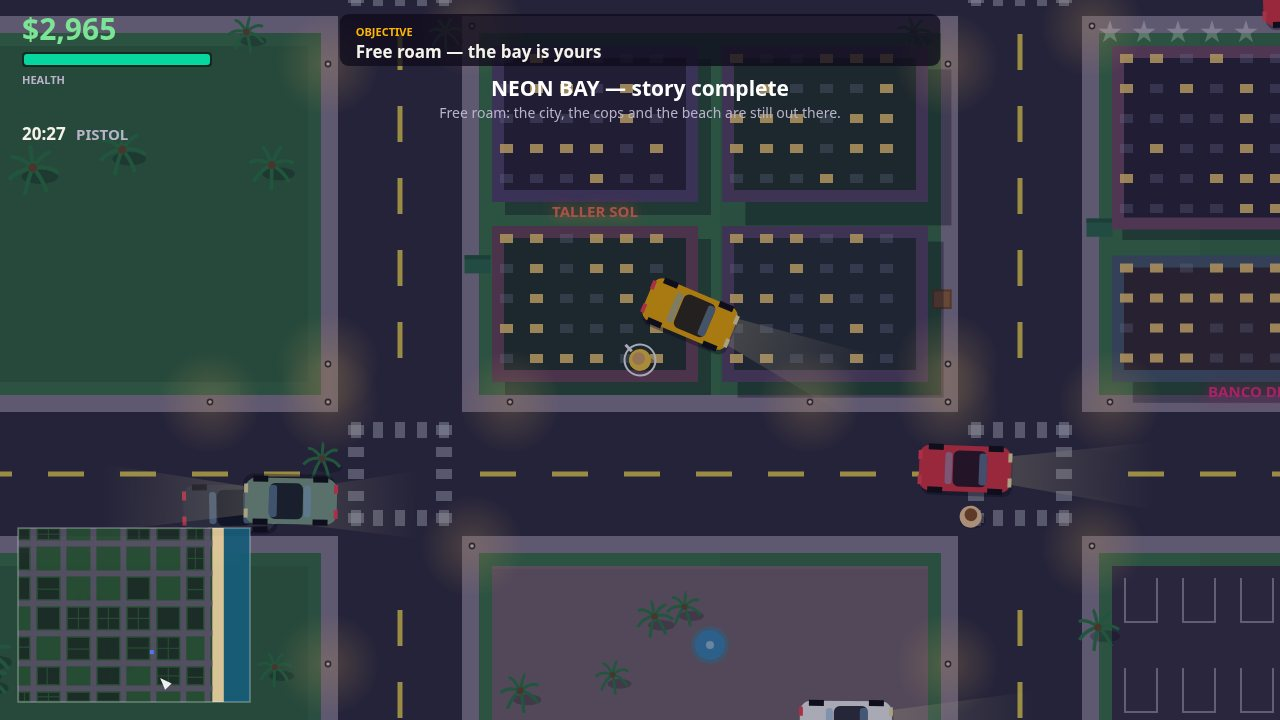
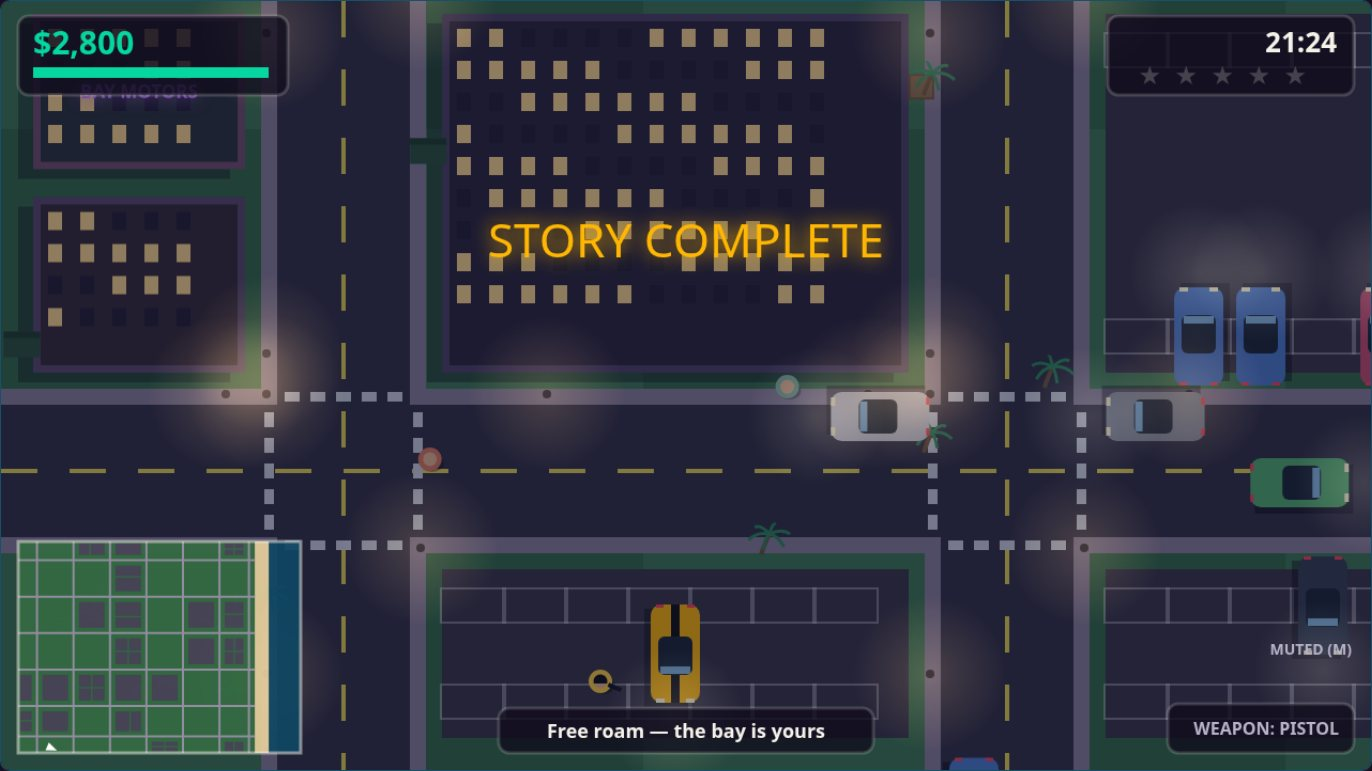
NEON BAY: contact damage per-bump cadence + wreck toast once (pile-ups no longer melt cars), shot staging tuned — 4 fresh real screenshots (title/getaway/beach shootout/night finale)

diff --git a/game/src/world.js b/game/src/world.js
@@ -891,7 +891,10 @@ export function createWorld(seed = 1) {
       const car = player.car;
       if (car.health <= 0) {
         car.speed = 0;
-        world.toast('This car is wrecked — get out and find another');
+        if (!car.wreckToasted) {
+          car.wreckToasted = true;
+          world.toast('This car is wrecked — get out and find another');
+        }
       } else {
         const fwd = -ctl.moveY; // W / ArrowUp is up on screen = accelerate
         const steer = ctl.moveX;
@@ -929,7 +932,10 @@ export function createWorld(seed = 1) {
             const a = Math.atan2(other.y - car.y, other.x - car.x);
             other.x += Math.cos(a) * push;
             other.y += Math.sin(a) * push;
-            if (Math.abs(car.speed) > 200) {
+            // Contact damage is charged per bump, not per step: two cars
+            // grinding together must not melt in a second.
+            if (Math.abs(car.speed) > 200 && !other.hitCd) {
+              other.hitCd = 0.3;
               other.health -= 5;
               car.health -= 2;
               sfx(audio, 'crash', 0.5);
@@ -1073,7 +1079,10 @@ export function createWorld(seed = 1) {
 
     updatePlayer(dt, ctl, audio);
 
-    for (const car of world.cars) car.crimeCd = Math.max(0, (car.crimeCd || 0) - dt);
+    for (const car of world.cars) {
+      car.crimeCd = Math.max(0, (car.crimeCd || 0) - dt);
+      car.hitCd = Math.max(0, (car.hitCd || 0) - dt);
+    }
     for (const car of world.cars) {
       if (car.driver === 'traffic') updateTrafficCar(car, dt);
       else if (car.kind === 'police' && car.driver === 'police') updatePoliceCar(car, dt);

diff --git a/game/src/shots.js b/game/src/shots.js
@@ -7,7 +7,7 @@
 // getaway drive with the law converging, the beach shootout from Mission 3,
 // and the quiet night after the story is done.
 
-export const SHOT_STEP_SECONDS = { start: 0.6, play: 4.6, chase: 3.6, end: 1.4 };
+export const SHOT_STEP_SECONDS = { start: 0.6, play: 3.6, chase: 3.6, end: 1.4 };
 
 const NEUTRAL = { moveX: 0, moveY: 0, run: false, attack: false, interact: false, aimAngle: 0 };
 
@@ -28,10 +28,10 @@ export function setupShot(world, name) {
       // with three stars on it and the package run about to begin.
       world.restore({
         money: 250, missionIndex: 1, hasGun: true,
-        x: 3050, y: 1591, health: 100, timeHours: 18.05,
+        x: 2100, y: 1591, health: 100, timeHours: 18.05,
         stats: { stolen: 1, kills: 0, missions: 1, shotsFired: 0 },
       });
-      placePlayerInCoupe(world, 3050, 1591, 0, 330);
+      placePlayerInCoupe(world, 2100, 1591, 0, 380);
       world.heat = 255;
       world.unseenFor = 0;
       break;
@@ -59,6 +59,7 @@ export function setupShot(world, name) {
       const coupe = world.missionCar;
       coupe.x = places.garage.x; coupe.y = places.garage.y;
       coupe.angle = Math.PI / 2; coupe.speed = 0; coupe.driver = null;
+      world.banner = null; // the fresh-world Mission 1 banner must not linger here
       world.player.car = null;
       world.player.x = places.garage.x - 70;
       world.player.y = places.garage.y + 26;
